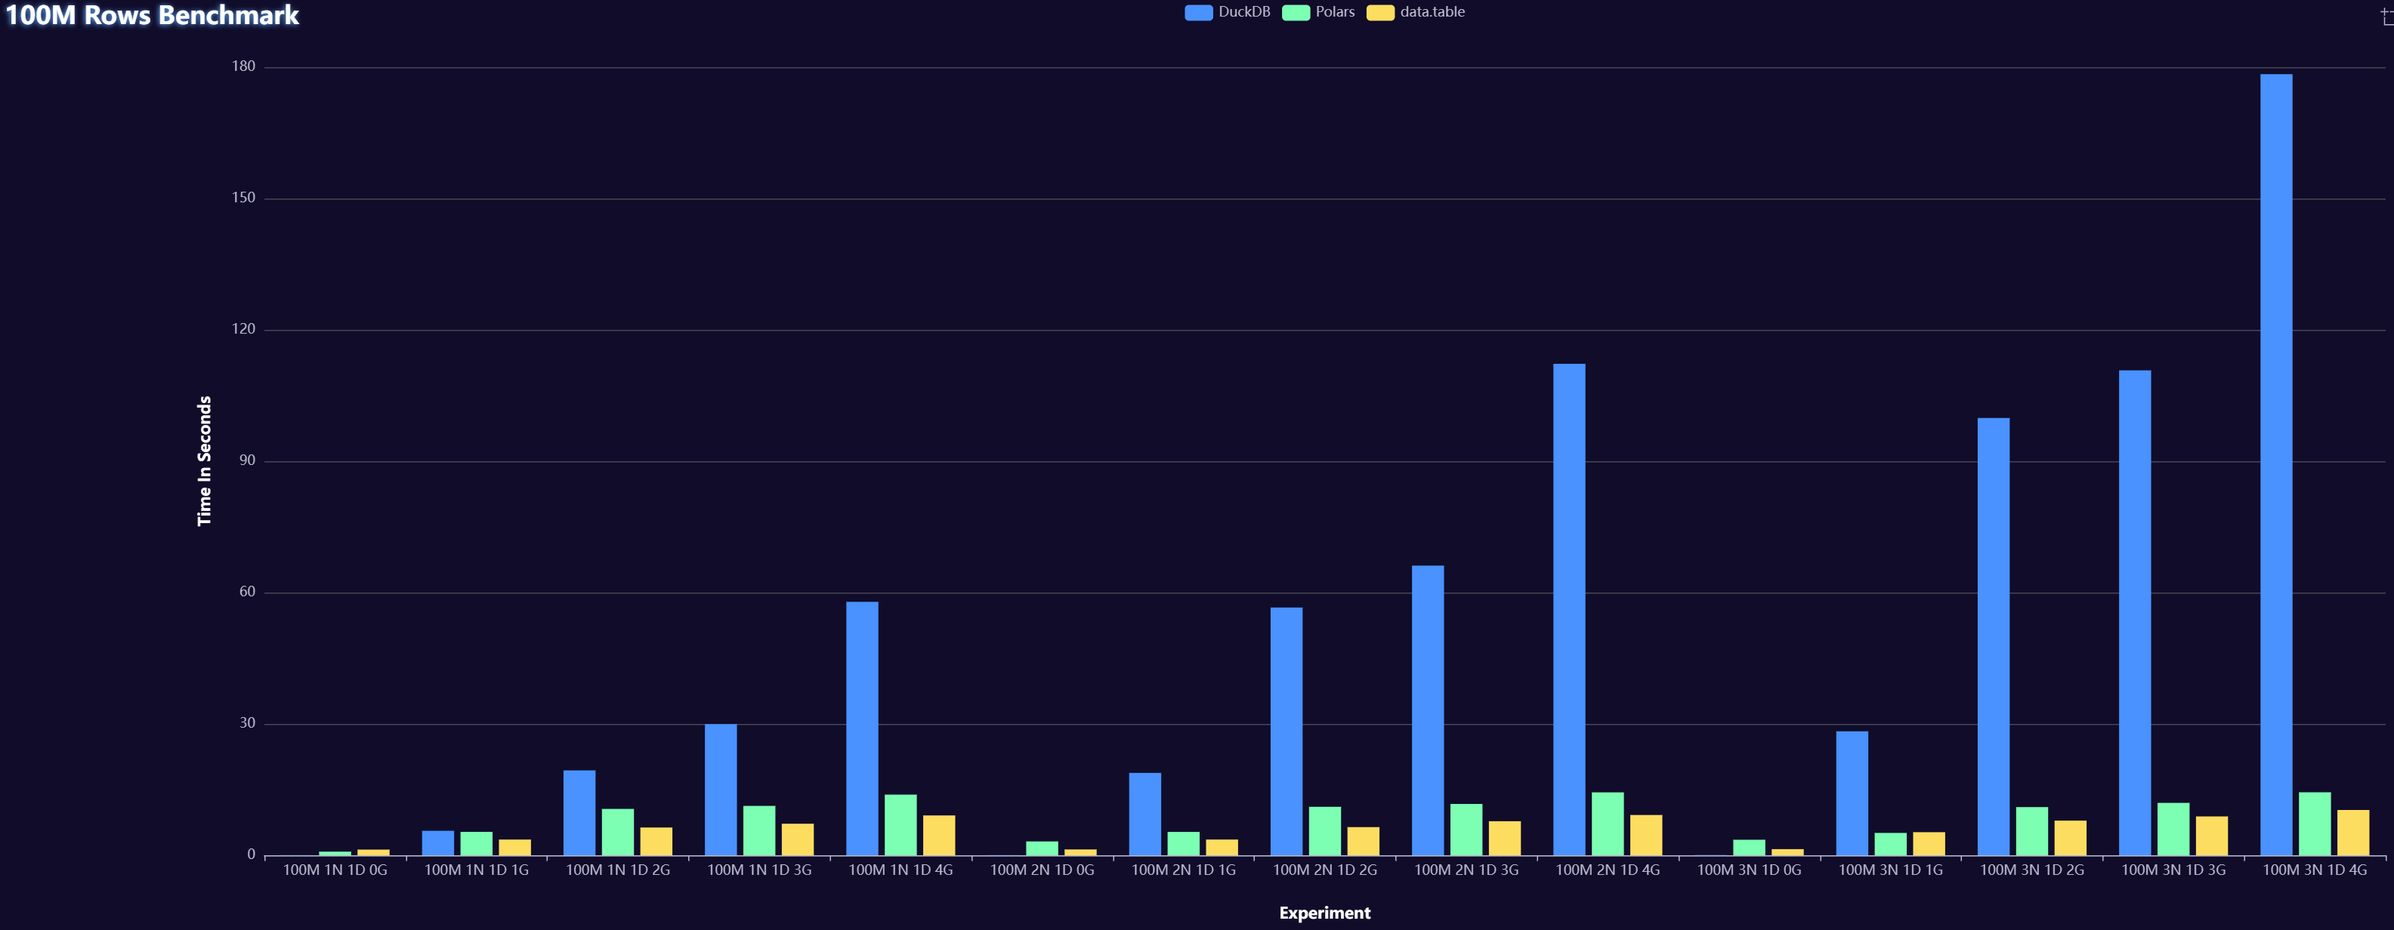
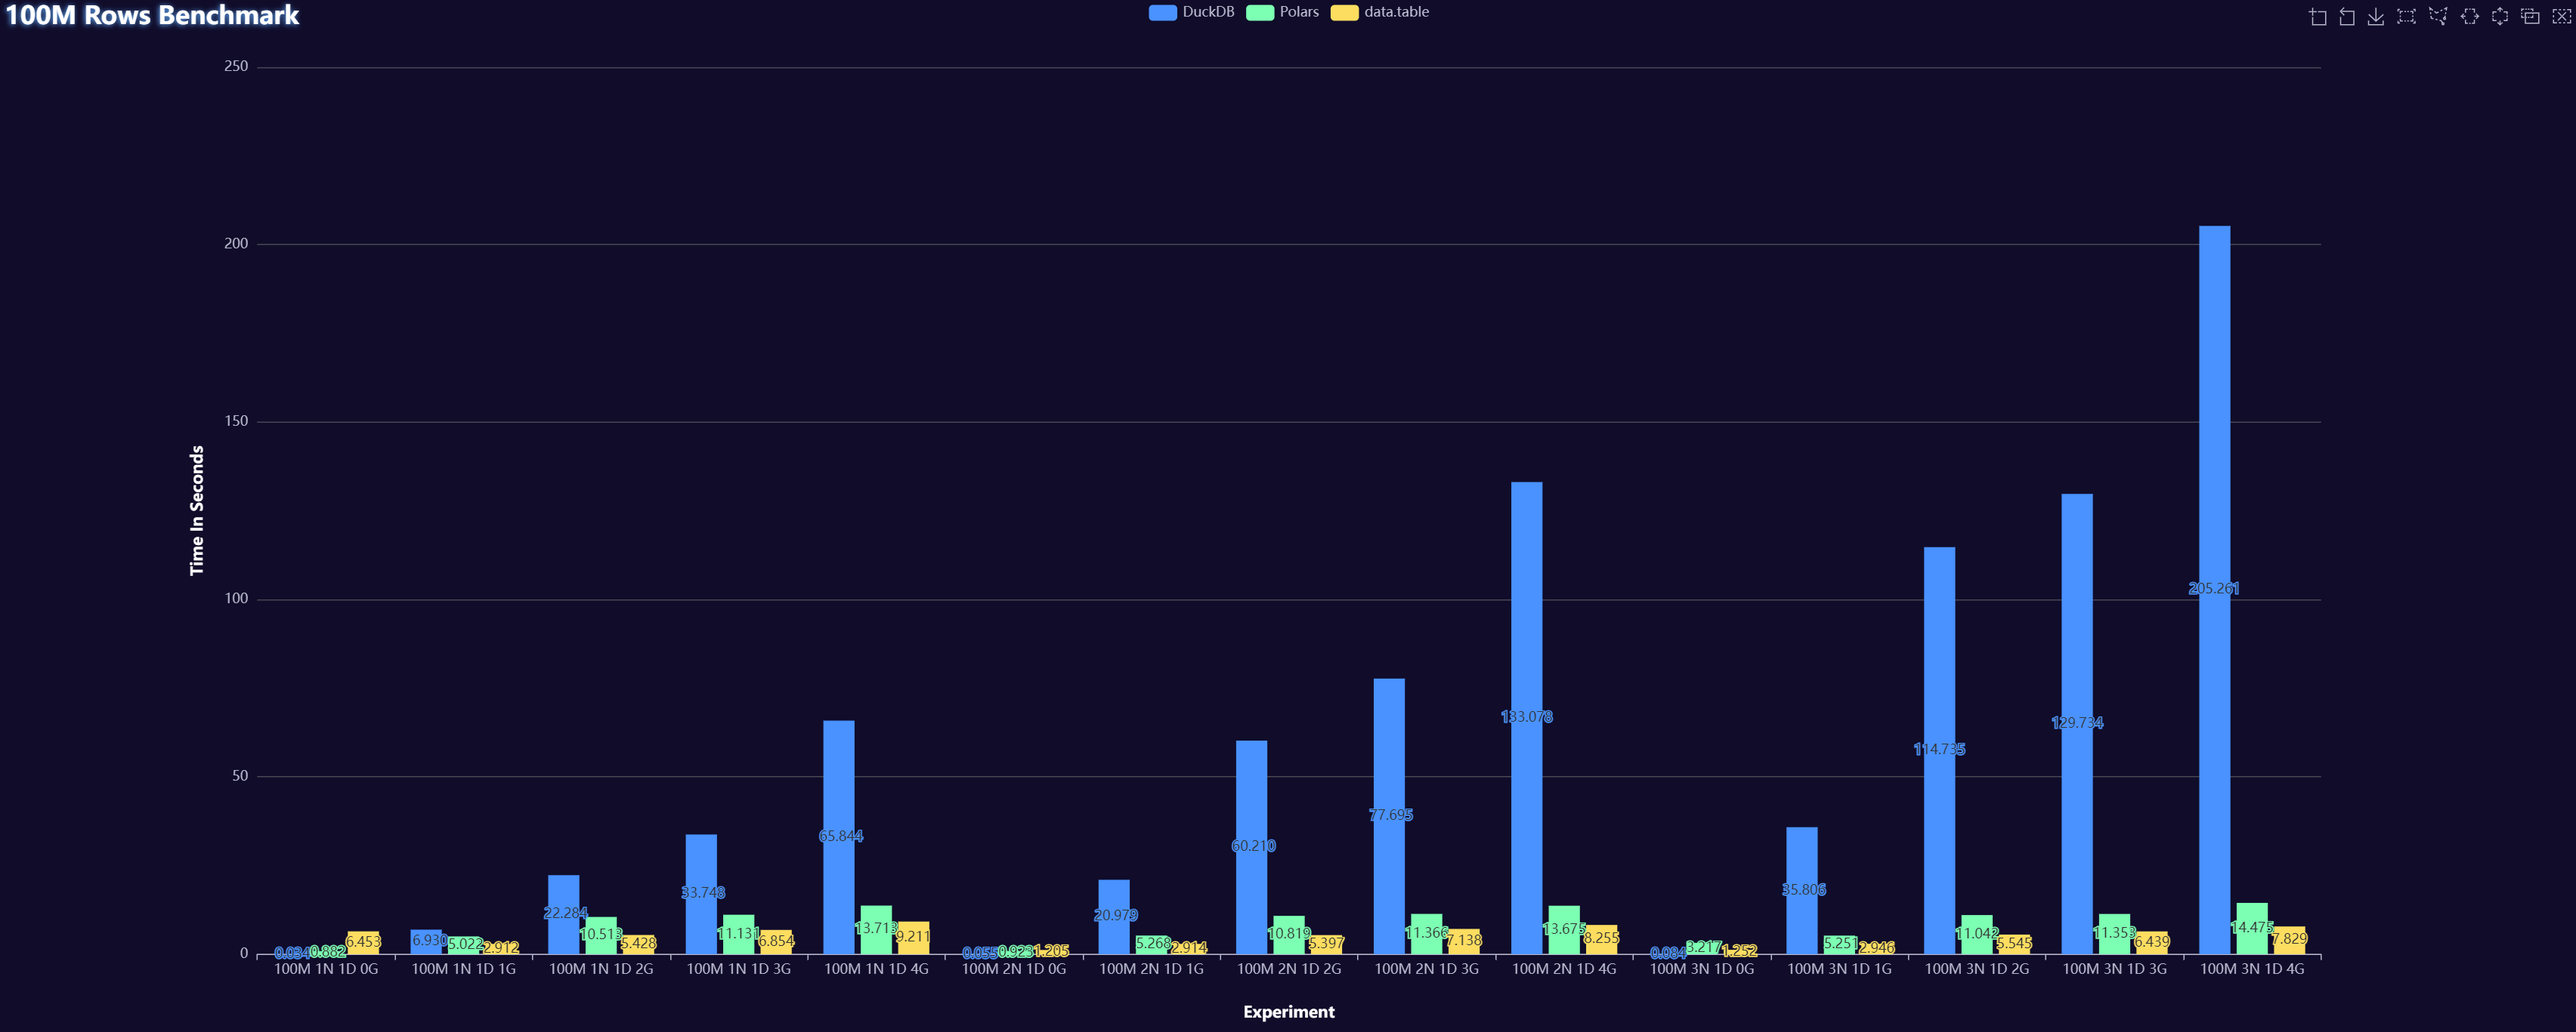
Add labels to plots

diff --git a/BenchmarkingPolars.py b/BenchmarkingPolars.py
@@ -3,7 +3,7 @@ import timeit
 import gc
 
 # Path to source data
-Path = f'{Path}'
+Path = "C:/Users/Bizon/Documents/GitHub/rappwd/"
 
 # Create results table
 BenchmarkResults = {
@@ -635,19 +635,26 @@ x = BenchmarkResults[0:44]
 y = x['TimeInSeconds'].sum()
 BenchmarkResults[45, 'TimeInSeconds'] = y
 BenchmarkResults.write_csv(f'{Path}BenchmarkResultsPolars.csv')
-
-
-
+ 
+ 
+ 
 dt = pl.read_csv(f'{Path}BenchmarkResultsPlot.csv')
 
 from QuickEcharts import Charts
-dt = dt.sort('Experiment')
+# dt = dt.sort('Experiment')
 
-p1 = Charts.Bar(
-  dt = dt,
+dt = dt.with_columns(dt['Time In Seconds'].round(3))
+
+rows1M = [[x for x in range(0, 14)], [x for x in range(46, 60)], [x for x in range(92, 107)]]
+rows1M_list = [number for sublist in rows1M for number in sublist]
+dt1M = dt[rows1M_list]
+
+
+Charts.Bar(
+  dt = dt1M,
   PreAgg = True,
-  YVar = 'Experiment',
-  XVar = 'Time In Seconds',
+  YVar = 'Time In Seconds',
+  XVar = 'Experiment',
   GroupVar = 'variable',
   FacetCols = 1,
   FacetRows = 1,
@@ -656,9 +663,9 @@ p1 = Charts.Bar(
   AggMethod = 'sum',
   YVarTrans = 'Identity',
   RenderHTML = True,
-  ShowLabels = False,
+  ShowLabels = True,
   LabelPosition = 'top',
-  Theme = 'macarons',
+  Theme = 'dark',
   BackgroundColor = None,
   Width = None,
   Height = None,
@@ -666,7 +673,7 @@ p1 = Charts.Bar(
   Brush = True,
   DataZoom = True,
   Title = 'Benchmark Results',
-  TitleColor = 'black',
+  TitleColor = 'white',
   TitleFontSize = 20,
   SubTitle = None,
   SubTitleColor = '#fff',
@@ -682,7 +689,7 @@ p1 = Charts.Bar(
   LegendPosRight = '0%',
   LegendPosTop = '5%',
   LegendBorderSize = 1,
-  LegendTextColor = 'black',
+  LegendTextColor = 'white',
   VerticalLine = None,
   VerticalLineName = 'Line Name',
   HorizontalLine = None,
